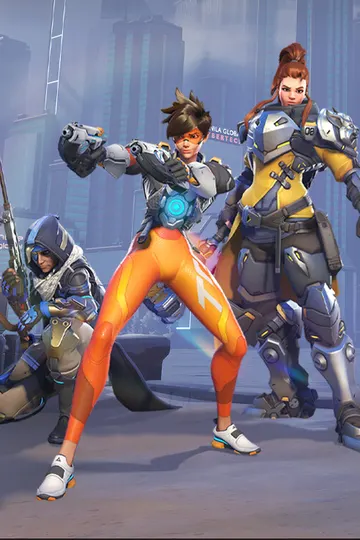
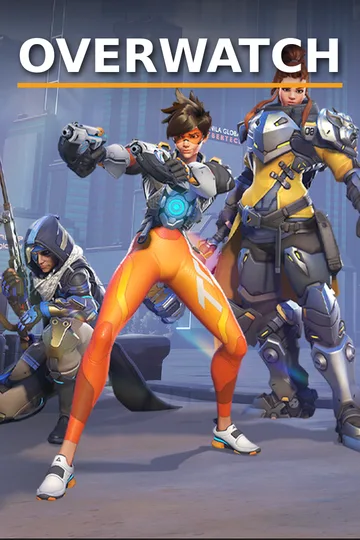
Overwatch : nom intégré à la jaquette, même comportement que les autres
Claude-Session: https://claude.ai/code/session_015C6kC2SiuKo7xLBjLTey6W

Changed region(s): [[0.0, 0.0, 1.0, 0.1778]]

diff --git a/src/data/cv.ts b/src/data/cv.ts
@@ -352,8 +352,8 @@ export const games = [
   { name: 'Cyberpunk 2077', cover: '/games/cyberpunk.webp', fav: true },
   { name: 'Satisfactory', cover: '/games/satisfactory.webp' },
   { name: 'Subnautica 2', cover: '/games/subnautica2.webp' },
-  // Jaquette recadrée sans l'ancien logo « Overwatch 2 » : le titre est affiché en permanence
-  { name: 'Overwatch', cover: '/games/overwatch.webp', showTitle: true },
+  // Jaquette recadrée sans l'ancien logo « Overwatch 2 », nom ajouté dans l'image
+  { name: 'Overwatch', cover: '/games/overwatch.webp' },
   { name: 'Dead by Daylight', cover: '/games/dbd.webp' },
   { name: 'Rust', cover: '/games/rust.webp' },
   { name: 'ARC Raiders', cover: '/games/arc.webp' },
